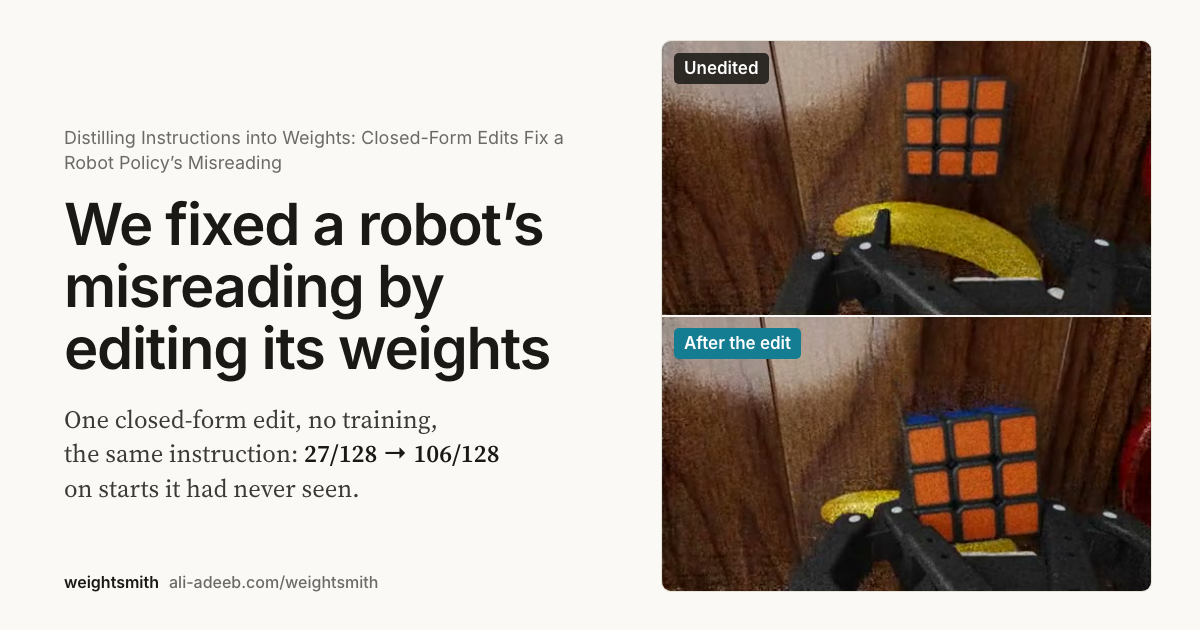
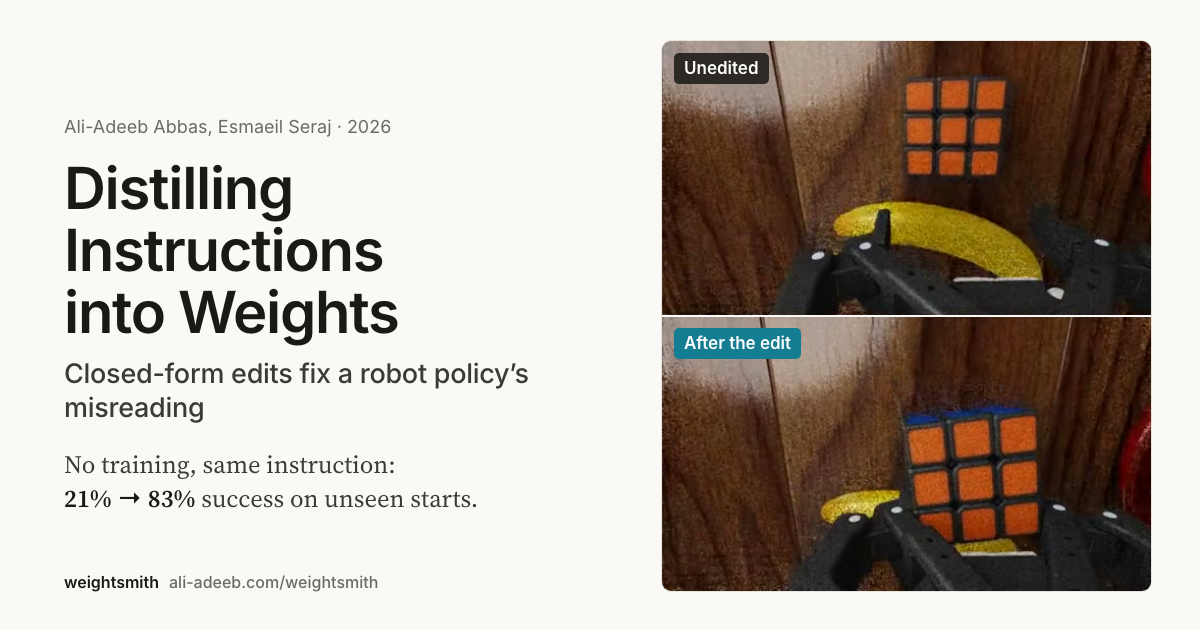
Blog: paper title as the headline, a concise summary, weight-space programming terms
- The page title, headline and social previews are the paper's title.
- The summary is three precise sentences instead of a lay explanation.
- Editing is described in the vocabulary of weight-space programming
  (Takehi et al.): LLM editors that read and write weights directly, native
  weight edits, a closed-form weight edit, no gradient descent.
- Social card regenerated with the paper title.

Changed region(s): [[0.0308, 0.181, 0.4625, 0.8143]]

diff --git a/site/index.html b/site/index.html
@@ -3,8 +3,8 @@
 <head>
 <meta charset="utf-8">
 <meta name="viewport" content="width=device-width, initial-scale=1">
-<title>We fixed a robot’s misreading by editing its weights · weightsmith</title>
-<meta name="description" content="A robot kept dropping a cube because it misread one phrase. We found the misreading inside its network and fixed it with a direct edit to its weights: no retraining, no new data, same instruction. Success in 128 unseen situations went from 21% to 83%.">
+<title>Distilling Instructions into Weights: Closed-Form Edits Fix a Robot Policy’s Misreading</title>
+<meta name="description" content="π0.5 binds “in the bowl” to the wrong object and drops the cube. Distilling an explicit rewording into its weights in closed form, with no training and the instruction unchanged, lifts success on 128 unseen starts from 21% to 83%.">
 <meta name="color-scheme" content="light dark">
 <meta name="theme-color" content="#faf9f5" media="(prefers-color-scheme: light)">
 <meta name="theme-color" content="#1a1917" media="(prefers-color-scheme: dark)">
@@ -16,16 +16,16 @@
 <meta name="citation_pdf_url" content="https://ali-adeeb.com/weightsmith/paper.pdf">
 <meta property="og:type" content="article">
 <meta property="og:site_name" content="weightsmith">
-<meta property="og:title" content="We fixed a robot’s misreading by editing its weights">
-<meta property="og:description" content="A robot kept dropping a cube because it misread one phrase. A direct edit to its weights, with no retraining, fixed it: 21% → 83% success in situations it had never seen.">
+<meta property="og:title" content="Distilling Instructions into Weights: Closed-Form Edits Fix a Robot Policy’s Misreading">
+<meta property="og:description" content="A closed-form weight edit, with no training and the instruction unchanged, fixes π0.5’s misreading: 21% → 83% success on unseen starts.">
 <meta property="og:url" content="https://ali-adeeb.com/weightsmith/">
 <meta property="og:image" content="https://ali-adeeb.com/weightsmith/assets/og.png">
 <meta property="og:image:width" content="1200">
 <meta property="og:image:height" content="630">
 <meta property="og:image:alt" content="The headline beside two wrist-camera views of the same moment: the unedited policy has let go of the cube; after the edit it still holds it.">
 <meta name="twitter:card" content="summary_large_image">
-<meta name="twitter:title" content="We fixed a robot’s misreading by editing its weights">
-<meta name="twitter:description" content="A robot kept dropping a cube because it misread one phrase. A direct edit to its weights, with no retraining, fixed it: 21% → 83% success in situations it had never seen.">
+<meta name="twitter:title" content="Distilling Instructions into Weights: Closed-Form Edits Fix a Robot Policy’s Misreading">
+<meta name="twitter:description" content="A closed-form weight edit, with no training and the instruction unchanged, fixes π0.5’s misreading: 21% → 83% success on unseen starts.">
 <meta name="twitter:image" content="https://ali-adeeb.com/weightsmith/assets/og.png">
 <meta name="twitter:image:alt" content="The headline beside two wrist-camera views of the same moment: the unedited policy has let go of the cube; after the edit it still holds it.">
 <link rel="icon" type="image/svg+xml" href="assets/favicon.svg">
@@ -52,9 +52,8 @@
 <article class="post">
 
   <header class="head">
-    <p class="eyebrow">Distilling Instructions into Weights: Closed-Form Edits Fix a Robot Policy’s Misreading</p>
-    <h1>We fixed a robot’s misreading by editing its weights</h1>
-    <p class="dek">A robot kept dropping a cube because it misread one phrase in its instruction. We found the misreading inside its neural network and fixed it with a small, direct change to the network’s weights: no retraining, no new data, and the same instruction. In 128 situations it had never seen, its success rate went from 21% to 83%.</p>
+    <h1>Distilling Instructions into Weights: Closed&#8209;Form Edits Fix a Robot Policy’s Misreading</h1>
+    <p class="dek">Told to “put the cube then the banana in the bowl,” π0.5 drops the cube: it binds “in the bowl” to the banana. With weight-space programming, we distil an explicit rewording directly into its weights: a closed-form weight edit, with no gradient descent and the instruction unchanged. Success on 128 unseen starts rises from 21% to 83%.</p>
     <p class="byline">Ali-Adeeb Abbas, Esmaeil Seraj<span class="sep">·</span><span class="nw">November 2026</span><span class="sep">·</span><a href="paper.pdf">Paper</a><span class="sep">·</span><a href="https://github.com/adeeb10abbas/weightsmith">Code</a></p>
   </header>
 
@@ -82,7 +81,7 @@
   <section id="failure">
     <h2>The robot misread one phrase</h2>
     <p class="claim">It knew how to do the task. It got confused about which object “in the bowl” referred to.</p>
-    <p>The robot is controlled by π0.5, an open, general-purpose robot model with about 3 billion parameters, and runs in simulation. Told to “put the cube then the banana in the bowl,” it picks up the cube, then lets go of it on the way. It succeeds only about one time in five.</p>
+    <p>π0.5 is an open, generalist vision-language-action policy with about 3 billion parameters; here it runs in simulation. Told to “put the cube then the banana in the bowl,” it picks up the cube, then lets go of it on the way. It succeeds only about one time in five.</p>
     <figure class="fig wide">
       <a class="fig-link" href="assets/fig/rewordings.svg" title="Open the figure at full size"><picture>
         <source type="image/svg+xml" media="(prefers-color-scheme: dark)" srcset="assets/fig/rewordings-dark.svg">
@@ -97,10 +96,10 @@
   </section>
 
   <section id="fix">
-    <h2>We wrote the clear reading into the weights</h2>
-    <p class="claim">Instead of changing the words, we changed how the network reads them.</p>
-    <p>Rewording is not always possible: instructions come from people, or from other software. So we made the network read the original instruction the way it reads the clear one. At the moments the robot let go, we recorded what happens inside the network under each wording. Then we computed a small change to its weights that turns the first into the second.</p>
-    <p>The change is computed directly, with one formula per layer, borrowed from methods that edit facts stored in language models. There is no training, no gradient descent and no new data; the math is in the <a href="paper.pdf">paper</a>. It took four attempts. The one that worked copies the clear wording’s effect on how the network sees the scene.</p>
+    <h2>We programmed the fix into the weights</h2>
+    <p class="claim">Instead of changing the words, we edited how the policy reads them, directly in weight space.</p>
+    <p>Rewording is not always possible: instructions come from people, or from other software. So we read the network’s activations under both wordings at the moments the robot let go, and wrote a weight edit that makes the original instruction produce the clear one’s internal state.</p>
+    <p>This is <a href="https://rikiyat.github.io/blog/weight-space-programming/">weight-space programming</a> (Takehi et al.): an LLM editor, here Claude Opus, reads and writes the weights directly rather than through an optimizer. Our edit, closed-form instruction distillation, is one regularized least-squares solve per layer, the multi-key update used to edit facts stored in language models. There is no gradient descent and no training data; the math is in the <a href="paper.pdf">paper</a>. It took four attempts. The one that worked copies the clear wording’s effect at the image tokens, where the policy reads the instruction into what it sees.</p>
     <p><strong>It works in situations it has never seen.</strong> We tested it on 128 new starting positions that were never used while building it. The edited robot succeeded 106 times, against 27 for the original: 81 runs fixed and only 2 broken.</p>
     <p><strong>It isn’t luck, and it isn’t the size of the change.</strong> An edit of exactly the same size, pointing in random directions, did nothing: 9 successes in 64, like the original robot. Our edit gets most of what the clear wording itself achieves (50 versus 57 in 64) without changing a single word. A much more compact version, storable in 0.16% of the network’s size, works just as well.</p>
   </section>
@@ -127,8 +126,8 @@
 
   <section id="failures">
     <h2>What didn’t work</h2>
-    <p class="claim">Editing can re-route what a robot already knows. It can’t teach it something new.</p>
-    <p>We tried the same kind of surgery on other failures, with Claude and GPT-6 Astra as the editors: a robot that grabs a lookalike block, a box too wide for its usual grip, and a mustard bottle that slips out of its fingers. Dozens of edits, and none helped. Each of these failures lacked what the cube fix had: some version of the input under which the robot already does the right thing. The robot can tell the lookalike blocks apart, but nothing we tried made it act on that. The box needs a grasp it never learned, and the bottle simply slips.</p>
+    <p class="claim">Weight edits re-route what a policy already computes. They don’t create a skill it lacks.</p>
+    <p>We applied weight-space programming to other failures, with Claude Opus and GPT-6 Astra as the LLM editors: a robot that grabs a lookalike block, a box too wide for its usual grip, and a mustard bottle that slips out of its fingers. Dozens of native weight edits, and none helped. Each of these failures lacked what the cube fix had: some version of the input under which the robot already does the right thing. The robot can tell the lookalike blocks apart, but nothing we tried made it act on that. The box needs a grasp it never learned, and the bottle simply slips.</p>
     <figure class="fig wide">
       <a class="fig-link" href="assets/fig/outcomes-simple.svg" title="Open the figure at full size"><picture>
         <source type="image/svg+xml" media="(prefers-color-scheme: dark)" srcset="assets/fig/outcomes-simple-dark.svg">
@@ -141,20 +140,20 @@
   </section>
 
   <section id="study">
-    <h2>Then we let AI editors try on their own</h2>
-    <p class="claim">Seven AI editors worked blind. One edit survived, and it fixed the misreading again.</p>
-    <p>We gave seven fresh Claude Opus editors the same tools and the same small budget. Each got one task, and each task showed a different kind of failure. They couldn’t see each other’s work, and we tested each final edit on 64 starting positions none of them had seen.</p>
-    <p>The editor given the cube task found the misreading on its own, with the same trick of replaying the drops under a clearer wording. It then wrote a different and much smaller fix, changing just 1,024 numbers, which raised success from 11 to 27 in 64. That is less than our fix achieves, but it is the first edit by an autonomous AI editor to pass this test. The other six didn’t pass. Two edits stayed within noise, and four editors decided no edit was worth submitting. On the lookalike task, for example, no rewording changed where the arm went, so there was nothing to copy.</p>
-    <div class="tscroll" tabindex="0" role="region" aria-label="Results of the AI editor study">
+    <h2>Then we let LLM editors try on their own</h2>
+    <p class="claim">Seven LLM editors worked blind. One weight edit survived, and it fixed the misreading again.</p>
+    <p>We gave seven fresh Claude Opus editors the same weight-space programming tools and the same small budget. Each got one task, and each task showed a different kind of failure. They couldn’t see each other’s work, and we scored each submitted weight edit on 64 starting positions none of them had seen.</p>
+    <p>The editor given the cube task found the misreading on its own, with the same trick of replaying the drops under a clearer wording. It then wrote a different, far sparser weight edit, changing just 1,024 weights, which raised success from 11 to 27 in 64. That is less than our edit achieves, but it is the first weight edit by an autonomous LLM editor to pass this test. The other six didn’t pass. Two edits stayed within noise, and four editors decided no edit was worth submitting. On the lookalike task, for example, no rewording changed where the arm went, so there was nothing to copy.</p>
+    <div class="tscroll" tabindex="0" role="region" aria-label="Results of the LLM editor study">
       <table class="dtable study-table">
         <caption>Successes in 64 new starting positions, before → after the editor’s edit. An edit passes when the gain is too large to be noise. Every editor’s notes and code are <a href="https://github.com/adeeb10abbas/weightsmith/tree/main/study/results/ctrl">in the repository</a>.</caption>
         <thead>
           <tr><th scope="col">Task</th><th scope="col">What goes wrong</th><th scope="col">The editor submitted</th><th scope="col">Result</th></tr>
         </thead>
         <tbody>
-          <tr><td>Cube, then banana</td><td>Misreads the instruction</td><td>An edit of 1,024 numbers</td><td><b>11 → 27: passed</b></td></tr>
-          <tr><td>Pick up eyeglasses</td><td>Lifts a thin object too little</td><td>An edit of 3,072 numbers</td><td>18 → 27: could be noise</td></tr>
-          <tr><td>Mustard into the left bin</td><td>The grasp slips while carrying</td><td>An edit of 4,094 numbers</td><td>8 → 11: could be noise</td></tr>
+          <tr><td>Cube, then banana</td><td>Misreads the instruction</td><td>A 1,024-weight edit</td><td><b>11 → 27: passed</b></td></tr>
+          <tr><td>Pick up eyeglasses</td><td>Lifts a thin object too little</td><td>A 3,072-weight edit</td><td>18 → 27: could be noise</td></tr>
+          <tr><td>Mustard into the left bin</td><td>The grasp slips while carrying</td><td>A 4,094-weight edit</td><td>8 → 11: could be noise</td></tr>
           <tr><td>Cube left of the bowl</td><td>Reads “left” as a diagonal</td><td>No edit</td><td>—</td></tr>
           <tr><td>Stack three cubes</td><td>Stalls before the third cube</td><td>No edit</td><td>—</td></tr>
           <tr><td>Yellow block on red</td><td>Grabs a lookalike object</td><td>No edit</td><td>—</td></tr>
@@ -174,13 +173,13 @@
     <h2>What this means</h2>
     <p class="claim">Edit when the robot can already do the right thing under some input. Train when it can’t.</p>
     <p>The fix worked because three things were true. The robot had the skill. The failure came from one specific misreading. And some version of the input made it work. Every failure we couldn’t fix was missing one of these. Others who report big gains from weight edits worked with robots already trained on their task<sup>‡</sup>, which fits the same rule.</p>
-    <p>There are limits. The edit is compact but not tiny, because it nudges many stored numbers slightly. Finding it took a known-good instruction. We couldn’t predict in advance which other tasks it would help. And everything here is one robot model, in simulation.</p>
+    <p>There are limits. The edit is low-rank but not sparse: it nudges many weights slightly. Finding it took a known-good instruction. We couldn’t predict in advance which other tasks it would help. And everything here is one robot model, in simulation.</p>
   </section>
 
   <section id="try">
     <h2>Try it</h2>
     <p class="claim">Everything is open: the code, the benchmark, the edits and every result.</p>
-    <p>weightsmith gives an AI agent, or you, one tool to read, probe and edit a robot model’s weights. It scores every edit fairly, against the original robot, on starts the edit never saw. Start with the <a href="https://github.com/adeeb10abbas/weightsmith#readme">README</a>. The rules for submitting an edit are in the <a href="https://github.com/adeeb10abbas/weightsmith/blob/main/BENCHMARK.md">benchmark</a>, every result so far is on the <a href="https://github.com/adeeb10abbas/weightsmith/blob/main/LEADERBOARD.md">leaderboard</a>, and every comparison in this article is in the <a href="explore.html">explorer</a>.</p>
+    <p>weightsmith is a harness for weight-space programming on robot policies. An LLM editor, or you, reads, probes and writes π0.5’s weights through one tool, and every weight edit is scored against the unedited policy on starts it never saw. Start with the <a href="https://github.com/adeeb10abbas/weightsmith#readme">README</a>. The rules for submitting an edit are in the <a href="https://github.com/adeeb10abbas/weightsmith/blob/main/BENCHMARK.md">benchmark</a>, every result so far is on the <a href="https://github.com/adeeb10abbas/weightsmith/blob/main/LEADERBOARD.md">leaderboard</a>, and every comparison in this article is in the <a href="explore.html">explorer</a>.</p>
 <pre class="cmd"><code>git clone https://github.com/adeeb10abbas/weightsmith &amp;&amp; cd weightsmith
 pip install -e '.[mcp]'
 weightsmith --help</code></pre>

diff --git a/site/scripts/og_card.html b/site/scripts/og_card.html
@@ -11,6 +11,7 @@
   .text { position: absolute; left: 64px; top: 0; bottom: 0; width: 548px; display: flex; flex-direction: column; justify-content: center; }
   .eyebrow { font: 400 18px/1.4 Inter, sans-serif; color: #6b6a66; margin: 0 0 18px; }
   h1 { font: 600 58px/1.07 Inter, sans-serif; letter-spacing: -0.022em; margin: 0; text-wrap: balance; }
+  .sub { font: 500 27px/1.25 Inter, sans-serif; color: #3b3a36; margin: 14px 0 0; letter-spacing: -0.01em; }
   .dek { font: 400 25px/1.38 'Source Serif 4', serif; color: #3b3a36; margin: 22px 0 0; }
   .dek b { font-weight: 600; color: #1a1915; white-space: nowrap; }
   .url { position: absolute; left: 64px; bottom: 40px; font: 500 16px/1 Inter, sans-serif; color: #6b6a66; }
@@ -25,9 +26,10 @@
 </style></head>
 <body>
   <div class="text">
-    <p class="eyebrow">Distilling Instructions into Weights: Closed&#8209;Form Edits Fix a Robot Policy’s Misreading</p>
-    <h1>We fixed a robot’s misreading by editing its weights</h1>
-    <p class="dek">One closed-form edit, no training,<br>the same instruction: <b>27/128 → 106/128</b><br>on starts it had never seen.</p>
+    <p class="eyebrow">Ali-Adeeb Abbas, Esmaeil Seraj · 2026</p>
+    <h1>Distilling Instructions into Weights</h1>
+    <p class="sub">Closed&#8209;form edits fix a robot policy’s misreading</p>
+    <p class="dek">No training, same instruction:<br><b>21% → 83%</b> success on unseen starts.</p>
   </div>
   <div class="url"><b>weightsmith</b>ali-adeeb.com/weightsmith</div>
   <div class="shot">
